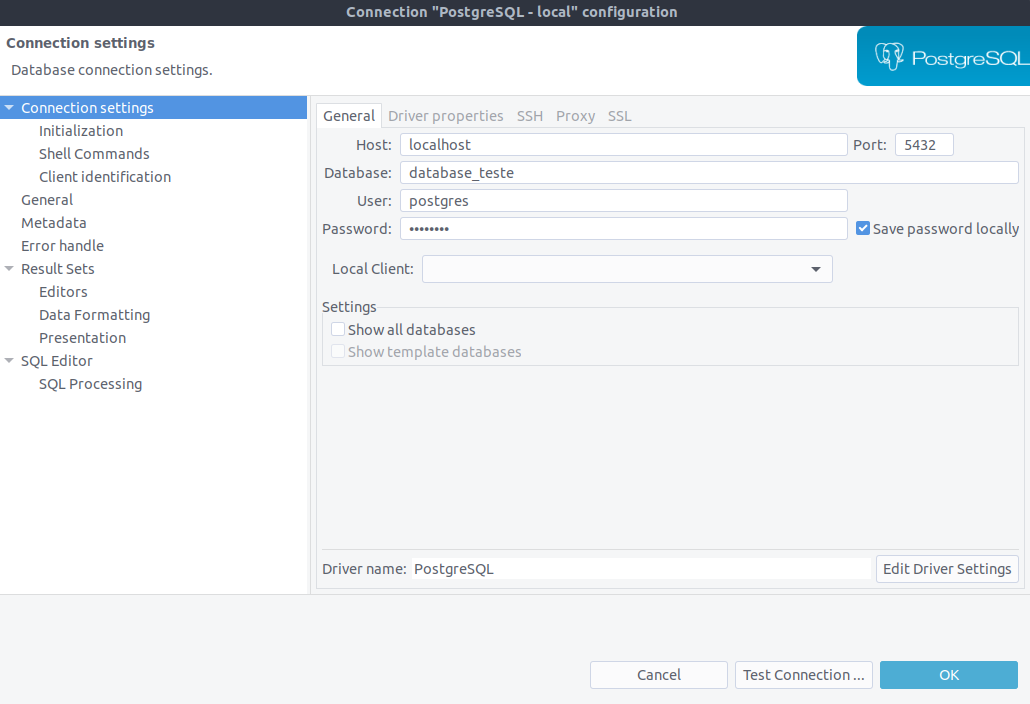
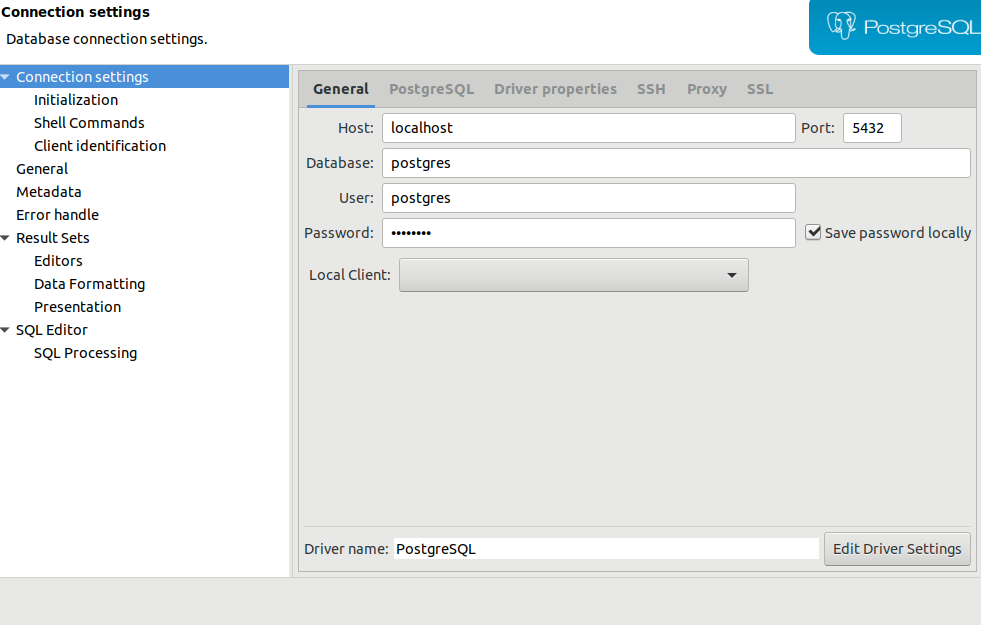
Ajustando readme

diff --git a/Readme.md b/Readme.md
@@ -8,8 +8,10 @@ Projeto criado a partir do curso de fullstack Angular e Spring da Algaworks
 #### Tecnologias
 - Spring boot
 - Spring Data
-- Postgree
+- Postgres
 - Flyway
+- Docker
+- Travis ci
 
 
 ----
@@ -18,21 +20,8 @@ Projeto criado a partir do curso de fullstack Angular e Spring da Algaworks
 
 - Banco postgres local 
 
-link: https://www.saltycrane.com/blog/2019/01/how-run-postgresql-docker-mac-local-development/
-
 ```shell
-docker run -d --name <name-container> -v my_dbdata:/var/lib/postgresql/data -p 5432:5432 postgres
-```
-- Criando senha para o usuario **postgres**
-
-```shell
-docker exec -it  <name-container> psql -U postgres -c "ALTER USER postgres WITH PASSWORD 'unisenha'"
-```
-- criando banco de dados
-- 
-
-```plsql
-docker exec -it  <name-container> psql -U postgres -c "create database database_teste 	with owner = postgres encoding = 'UTF8'"
+docker run --name uniDB -e POSTGRES_PASSWORD=unisenha -d -p 5432:5432 postgres
 ```
 
 - Conectando via dbeaver
@@ -43,28 +32,32 @@ docker exec -it  <name-container> psql -U postgres -c "create database database_
 
 ### Executando projeto
 
-- Instale as dependencias
-
-```shell
-mvn install
-```
-
-- importe no eclipse
-
-
--- crie profiles
+#### Crie profiles
 
 Caso queira passar o profile que o spring deve sergui via variavel de ambiente
+
 - Crie uma variavel de ambiente ex  `export SPRING_PROFILES_ACTIVE=dev` e use conforme abaixo
 
 spring.profiles.active={SPRING_PROFILES_ACTIVE}
 
 ![profiles.png](images/profiles.png)
 
+Existem 3 perfils: 
+ - dev : ambiente de dev, rodando o postgres criado anteriomente.
+ - prod : Criado para ser usado no deploy usando heroku
+ - docker: Criado para ser executado usando container do docker, com docker-compose [veja aqui](https://github.com/Uniliva/money-docker-compose)
 
-#### Maldito eclipse
 
-O eclipse, pelo que vi, não reconhece as variaveis de ambiente, para executar usando variaveis de ambiente use nas configurações de execução a aba environment para configurar a variavel
+
+#### Instale as dependencias
+
+```shell
+mvn install
+```
+
+#### Eclipse
+
+O eclipse, pelo que vi, não reconhece as variaveis de ambiente no linux, para executar usando variaveis de ambiente use nas configurações de execução a aba environment para configurar a variavel
 
 
 
